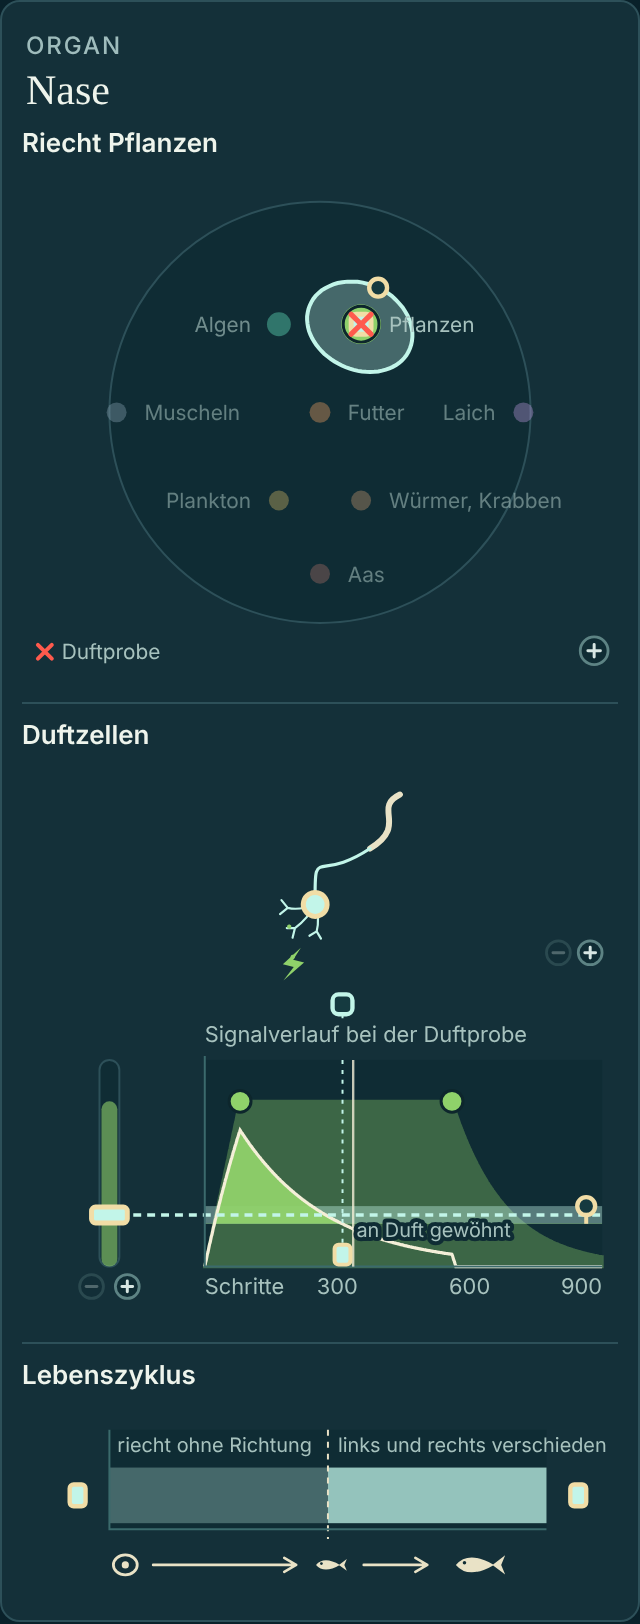
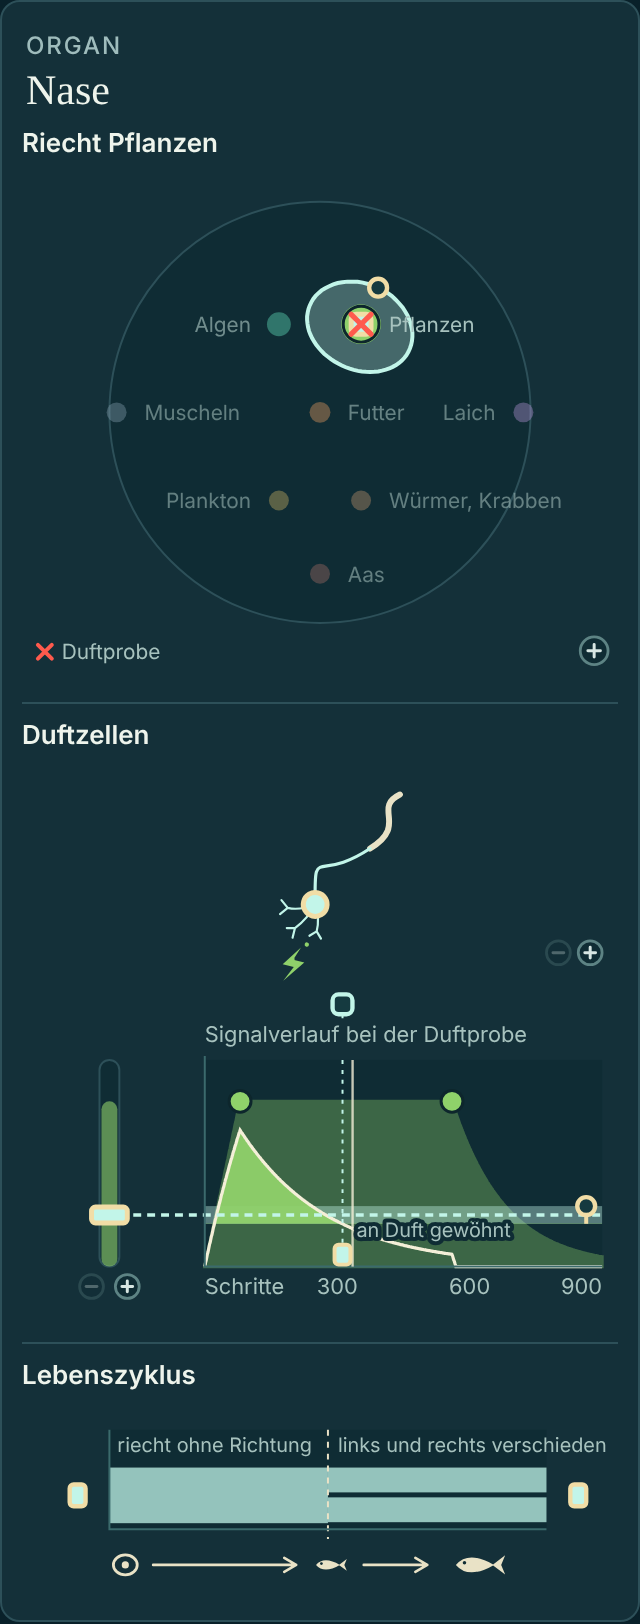
Entwurf Barteln: Kopf mit Barteln, Geschmackskarte mit Stein, Meldung ohne Zeitachse, Lebenszyklus; Nase: Lebensband
Claude-Session: https://claude.ai/code/session_01BFTVBFr3n4RiE4TcZDiSTc

Changed region(s): [[0.1562, 0.8929, 0.8438, 0.9544], [0.5312, 0.6466, 0.5625, 0.7697]]

diff --git a/entwuerfe/inspektoren.html b/entwuerfe/inspektoren.html
@@ -114,6 +114,17 @@ svg text.value{fill:var(--text);font-variant-numeric:tabular-nums}
     <h4>Lebenszyklus</h4>
     <svg id="noselife"></svg>
   </section>
+  <section class="panel" aria-label="Barteln">
+    <h2>Organ</h2><h3>Barteln</h3>
+    <h4 id="barb-kind" class="first">Barteln</h4>
+    <svg id="barbels"></svg>
+    <h4>Geschmack</h4>
+    <svg id="tastemap"></svg>
+    <h4>Meldung</h4>
+    <svg id="tastes"></svg>
+    <h4>Lebenszyklus</h4>
+    <svg id="barblife"></svg>
+  </section>
 </main>
 <script>
 'use strict';
@@ -196,7 +207,10 @@ const S = {
   spermfull : {keys : [{gate : .8, spread : .1}], chosen : 0, input : null},
   // The nose's types of cells: each with its place on the scent map (lat, lon) and its width;
   // probe: the scent tried on them.
-  smell : {keys : [{gate : .25, spread : .1, used : 200, lat : 35, lon : 25, width : .25}], chosen : 0, input : {rise : 80, height : .8, stop : 560}, probe : {lat : 35, lon : 25}}
+  smell : {keys : [{gate : .25, spread : .1, used : 200, lat : 35, lon : 25, width : .25}], chosen : 0, input : {rise : 80, height : .8, stop : 560}, probe : {lat : 35, lon : 25}},
+  // The barbels' types: a place and width on the same map, and feel: their share of mere touch;
+  // probe: what the thing at the tip tastes of, or a stone.
+  taste : {keys : [{gate : .3, lat : 35, lon : 155, width : .25, feel : .3}], chosen : 0, probe : {lat : 35, lon : 155}}
 };
 
 // ===== The model: the one source for every picture and number =====
@@ -2037,20 +2051,23 @@ const mapPlace = p => { const {cx, cy, R} = SNIFF.M, dx = p.x - cx, dy = cy - p.
 // A place dragged close to a scent is that scent.
 const snapped = p => { const at = SCENTS.find(([, lat, lon]) => { const [x, y] = mapPoint(lat, lon); return Math.hypot(x - p.x, y - p.y) <= SNIFF.snap; }); return at ? {lat : at[1], lon : at[2]} : mapPlace(p); };
 // What the sample holds of each scent: all of one where it lies on it, else a mix of those near.
-function sampleMix() {
-  const at = onSphere(S.smell.probe.lat, S.smell.probe.lon), raw = SCENTS.map(([, lat, lon]) => { const a = angleBetween(at, onSphere(lat, lon)); return a < .5 ? 1e6 : Math.exp(-((a / SNIFF.mix) ** 2)); }), sum = raw.reduce((x, y) => x + y, 0);
+// A sample of stone holds no scent at all.
+function sampleMix(cell = S.smell) {
+  if (cell.probe.stone) return SCENTS.map(() => 0);
+  const at = onSphere(cell.probe.lat, cell.probe.lon), raw = SCENTS.map(([, lat, lon]) => { const a = angleBetween(at, onSphere(lat, lon)); return a < .5 ? 1e6 : Math.exp(-((a / SNIFF.mix) ** 2)); }), sum = raw.reduce((x, y) => x + y, 0);
   return raw.map(v => sum > 0 ? v / sum : 0);
 }
 const typeShares = k => { const at = onSphere(k.lat, k.lon); return SCENTS.map(([, lat, lon]) => scentShare(angleBetween(at, onSphere(lat, lon)), k.width)); };
-const smellShare = k => { const mix = sampleMix(), shares = typeShares(k); return mix.reduce((sum, m, j) => sum + m * shares[j], 0); };
-const sampleColour = () => { const mix = sampleMix(); return SCENTS[mix.indexOf(Math.max(...mix))][3]; };
+const smellShare = (k, cell = S.smell) => { const mix = sampleMix(cell), shares = typeShares(k); return mix.reduce((sum, m, j) => sum + m * shares[j], 0); };
+const STONE = '#8d9aa0';
+const sampleColour = (cell = S.smell) => { const mix = sampleMix(cell); return cell.probe.stone ? STONE : SCENTS[mix.indexOf(Math.max(...mix))][3]; };
 // The scent map: the eight scents as balls, the bigger the more the nose's cells take of them;
 // each type of cells as the patch in which it takes at least half, with a grip at its place and
 // one on its edge for its width; the sample as a red cross.
-function drawScentMap() {
-  const {svg, live} = picture('scentmap', SNIFF.M.height), {cx, cy, R, ball, samples} = SNIFF.M, cell = S.smell, keys = cell.keys;
+function drawScentMap(id = 'scentmap', cell = S.smell, NOSE_PARTS = ['scentmap', 'smell', 'noselife'], words = {kind : 'nose-kind', verb : 'Riecht', sample : 'Duftprobe', stone : false, fresh : {}}) {
+  const {svg, live} = picture(id, SNIFF.M.height), {cx, cy, R, ball, samples} = SNIFF.M, keys = cell.keys;
   const taken = SCENTS.map((_, j) => Math.max(...keys.map(k => typeShares(k)[j]))), best = keys.map(k => { const s = typeShares(k); return SCENTS[s.indexOf(Math.max(...s))][0]; });
-  document.getElementById('nose-kind').textContent = 'Riecht ' + [...new Set(best)].join(', ');
+  document.getElementById(words.kind).textContent = words.verb + ' ' + [...new Set(best)].join(', ');
   el('circle', {cx, cy, r : R, fill : COLOUR.track, stroke : COLOUR.trackEdge}, live);
   keys.forEach((k, i) => {
     const chosen = i === cell.chosen, half = scentHalf(k.width), at = onSphere(k.lat, k.lon);
@@ -2070,12 +2087,12 @@ function drawScentMap() {
     txt(live, x + (right ? 14 : -14), y + 4, name, {'text-anchor' : right ? 'start' : 'end', fill : colour, style : 'font-size:10.5px', opacity : .55 + .45 * taken[j], 'pointer-events' : 'none'});
   });
   el('path', {d : `M8 ${SNIFF.M.height - 13} l7 7 m0 -7 l-7 7`, stroke : '#ff5a4d', 'stroke-width' : 2, 'stroke-linecap' : 'round'}, live);
-  txt(live, 20, SNIFF.M.height - 6, 'Duftprobe', {style : 'font-size:10.5px'});
+  txt(live, 20, SNIFF.M.height - 6, words.sample, {style : 'font-size:10.5px'});
   // The types' grips: at their place; the chosen one's width on its patch's edge, and its (×).
   keys.forEach((k, i) => {
     const chosen = i === cell.chosen, [x, y] = mapPoint(k.lat, k.lon);
     drag(svg, el('rect', {x : x - 5, y : y - 5, width : 10, height : 10, rx : 2.5, style : `fill:${keyColour(i)};stroke:${chosen ? COLOUR.chosen : COLOUR.unchosen};stroke-width:${chosen ? 2.5 : 1}`}, live),
-      p => { Object.assign(k, snapped(p)); cell.chosen = i; draw(NOSE_PARTS); }, 'type' + i);
+      p => { Object.assign(k, snapped(p)); cell.chosen = i; draw(NOSE_PARTS); }, id + 'type' + i);
     if (!chosen) return;
     const half = Math.min(scentHalf(k.width), 170), edge = (() => { const p = mapPoint(k.lat - half, k.lon); return Math.hypot(p[0] - cx, p[1] - cy) <= R + .5 ? p : mapPoint(k.lat + half > 90 ? 180 - k.lat - half : k.lat + half, k.lat + half > 90 ? k.lon + 180 : k.lon); })();
     drag(svg, el('circle', {cx : edge[0], cy : edge[1], r : 4.5}, live), p => {
@@ -2083,19 +2100,25 @@ function drawScentMap() {
       const wanted = angleBetween(onSphere(k.lat, k.lon), (({lat, lon}) => onSphere(lat, lon))(mapPlace(p)));
       let lo = 0, hi = .8;
       for (let n = 0; n < 22; n++) { const mid = (lo + hi) / 2; if (scentHalf(mid) < wanted) lo = mid; else hi = mid; }
-      k.width = lo; draw(NOSE_PARTS); }, 'typewidth');
+      k.width = lo; draw(NOSE_PARTS); }, id + 'typewidth');
     if (keys.length > 1) chip(live, x + 11, y - 11, '×', () => { keys.splice(i, 1); cell.chosen = 0; }, NOSE_PARTS, true, 6);
   });
   // The sample: a red cross, above the grips so that it shows where it lies on one.
-  const [sx, sy] = mapPoint(cell.probe.lat, cell.probe.lon), cross = el('g', {}, live);
+  // A stone has no place among the scents: it lies beside the map, and the sample can lie on it.
+  const stoneAt = [2 * cx - 26, 22];
+  if (words.stone) {
+    el('path', {d : `M${stoneAt[0] - 9} ${stoneAt[1] + 4} l3 -9 l8 -3 l7 5 l-2 8 l-10 3 Z`, fill : STONE, opacity : cell.probe.stone ? 1 : .6, class : 'chip'}, live).addEventListener('pointerdown', () => { cell.probe = {...cell.probe, stone : true}; draw(NOSE_PARTS); });
+    txt(live, stoneAt[0], stoneAt[1] + 22, 'Stein', {'text-anchor' : 'middle', style : 'font-size:10.5px', fill : STONE});
+  }
+  const [sx, sy] = cell.probe.stone ? stoneAt : mapPoint(cell.probe.lat, cell.probe.lon), cross = el('g', {}, live);
   el('circle', {cx : sx, cy : sy, r : 9, fill : 'transparent'}, cross);
   el('path', {d : `M${sx - 5} ${sy - 5} l10 10 m0 -10 l-10 10`, stroke : '#ff5a4d', 'stroke-width' : 2.6, 'stroke-linecap' : 'round'}, cross);
-  drag(svg, cross, p => { cell.probe = snapped(p); draw(NOSE_PARTS); }, 'sample', 'knob');
-  chip(live, 2 * cx - 12, SNIFF.M.height - 10, '+', () => { keys.push({gate : .25, spread : .1, used : 200, ...cell.probe, width : .25}); cell.chosen = keys.length - 1; }, NOSE_PARTS, keys.length < 3, 7);
+  drag(svg, cross, p => { cell.probe = words.stone && Math.hypot(p.x - stoneAt[0], p.y - stoneAt[1]) < 16 ? {...cell.probe, stone : true} : snapped(p); draw(NOSE_PARTS); }, id + 'sample', 'knob');
+  chip(live, 2 * cx - 12, SNIFF.M.height - 10, '+', () => { keys.push({gate : .25, spread : .1, used : 200, lat : cell.probe.lat, lon : cell.probe.lon, width : .25, ...words.fresh}); cell.chosen = keys.length - 1; }, NOSE_PARTS, keys.length < 3, 7);
 }
 // Life cycle: across, the fish's maturity. A type's band: from where its cells work to where
-// they die (a grip at each end). In the egg the two nostrils give the same; from hatching on the
-// cells tell left from right.
+// they die (a grip at each end). In the egg the cells smell already, both nostrils the same; from
+// hatching on the band is two, left and right.
 function buildNoseLife(fixed) {
   const {L, R, top, icons} = SNIFF.LIFE, hatch = L + (R - L) * SNIFF.hatch, arrow = {stroke : COLOUR.icon, 'stroke-width' : 1.3, fill : 'none', 'stroke-linecap' : 'round', 'stroke-linejoin' : 'round'};
   txt(fixed, L + 4, top + 11, 'riecht ohne Richtung', {style : 'font-size:10px'}); txt(fixed, hatch + 5, top + 11, 'links und rechts verschieden', {style : 'font-size:10px'});
@@ -2110,15 +2133,113 @@ function drawNoseLife() {
   el('rect', {x : L, y : top, width : R - L, height : base - top, fill : COLOUR.track}, under);
   keys.forEach((k, i) => {
     const chosen = i === cell.chosen, from = k.from ?? 0, until = Math.min(1, k.until ?? 1), y = top + 18 + high * i, hatch = clamp(SNIFF.hatch, from, until);
-    // Paler in the egg, where it smells without a side.
-    el('rect', {x : X(from), y : y + 1, width : X(hatch) - X(from), height : high - 2, fill : keyColour(i), opacity : chosen ? .3 : .15}, under);
-    el('rect', {x : X(hatch), y : y + 1, width : X(until) - X(hatch), height : high - 2, fill : keyColour(i), opacity : chosen ? .75 : .35, class : 'chip'}, under).addEventListener('pointerdown', () => { cell.chosen = i; draw(NOSE_PARTS); });
+    // In the egg the cells smell as strongly, one band; from hatching on it parts into left and right.
+    const pick = () => { cell.chosen = i; draw(NOSE_PARTS); }, look = {fill : keyColour(i), opacity : chosen ? .75 : .35, class : 'chip'};
+    el('rect', {x : X(from), y : y + 1, width : X(hatch) - X(from), height : high - 2, ...look}, under).addEventListener('pointerdown', pick);
+    for (const half of [0, 1]) el('rect', {x : X(hatch), y : y + 1 + half * (high / 2), width : X(until) - X(hatch), height : high / 2 - 2.5, ...look}, under).addEventListener('pointerdown', pick);
     if (!chosen) return;
     const grip = (r, inside, name, move) => drag(svg, el('rect', {x : (inside ? X(r) : name === 'nosefrom' ? L - beside : R + beside) - 4, y : y + high / 2 - 5.5, width : 8, height : 11, rx : 2, style : `fill:${keyColour(i)}`}, live), p => { move(rOf(p.x)); draw(NOSE_PARTS); }, name);
     grip(from, from > 0, 'nosefrom', to => { k.from = to < whole ? 0 : Math.min(to, until - least); });
     grip(until, until < 1, 'noseuntil', to => { k.until = to > 1 - whole ? 1 : Math.max(to, from + least); });
   });
   el('path', {d : `M${X(SNIFF.hatch)} ${top} V${base + 5}`, stroke : COLOUR.icon, 'stroke-dasharray' : '3 3'}, live);
+  el('path', {d : `M${L} ${top} V${base} H${R}`, stroke : COLOUR.axis, fill : 'none'}, live);
+}
+
+// ===== The barbels: what their tips touch =====
+// Read in the engine (body_plan.cc:1003-1010; cppn_brain.cc:370-382; small_animals.cc:73-101;
+// protocol_schema.hh:2007-2013; physiology.hh:437-441):
+//   a barbel on each side of the mouth, 0.45 rad outwards, as long as the body's radius x
+//   (0.22 + 0.35 x g / (g + 3)), g the root of its cells;
+//   it tastes only what its tip touches (within a reach of 2): every scent of the thing touched
+//   counts whole, not by amount; a stone is touched and has no taste;
+//   a cell's stimulus = (1 - feel) x min(1, taste) + feel x touched, taste the sum of the touched
+//   scents x what the cell takes of them (the nose's map), feel its share of mere touch;
+//   in the egg a barbel reports nothing.
+// No time here: a tip touches or does not.
+const BARB = {least : 1, most : 16, spread : .45, short : .22, long : .35, half : 3, reach : 9, hatch : .5,
+              H : {height : 150, mouthX : 150, mouthY : 78, radius : 150},
+              B : {L : 70, R : 280, top : 12, row : 26, height : 100},
+              LIFE : {L : 44, R : 264, top : 14, base : 64, icons : 82, height : 96, beside : 16, whole : .015, least : .08}};
+const BARB_PARTS = ['barbels', 'tastemap', 'tastes', 'barblife'];
+const BA = {cells : 3, thing : {x : 44, y : 44}};
+const barbLength = cells => BARB.H.radius * (BARB.short + BARB.long * Math.sqrt(cells) / (Math.sqrt(cells) + BARB.half));
+const barbTip = (side, cells = BA.cells) => { const {mouthX, mouthY} = BARB.H, long = barbLength(cells); return [mouthX - long * Math.cos(BARB.spread), mouthY + side * (10 + long * Math.sin(BARB.spread))]; };
+const barbTouches = () => [-1, 1].some(side => { const [x, y] = barbTip(side); return Math.hypot(x - BA.thing.x, y - BA.thing.y) <= BARB.reach + 7; });
+// What a type's cells get: taste of the thing touched, and its mere touch.
+function barbStimulus(k) {
+  const touched = barbTouches() ? 1 : 0, taste = Math.min(1, smellShare(k, S.taste)) * touched;
+  return {taste : (1 - k.feel) * taste, touch : k.feel * touched};
+}
+function buildBarbels(fixed) {
+  const {mouthX, mouthY} = BARB.H;
+  // The head from above, snout to the left; only its front, the body runs on to the right.
+  el('path', {d : `M300 ${mouthY - 62} Q${mouthX + 60} ${mouthY - 64} ${mouthX + 12} ${mouthY - 22} Q${mouthX - 8} ${mouthY} ${mouthX + 12} ${mouthY + 22} Q${mouthX + 60} ${mouthY + 64} 300 ${mouthY + 62} Z`, fill : HEAD, stroke : COLOUR.axis, 'stroke-width' : 1.4}, fixed);
+  for (const side of [-1, 1]) { el('circle', {cx : mouthX + 62, cy : mouthY + side * 40, r : 5, fill : COLOUR.unchosen, stroke : COLOUR.axis, 'stroke-width' : 1.2}, fixed); el('circle', {cx : mouthX + 60.2, cy : mouthY + side * 40 - 1.5, r : 1.3, fill : COLOUR.icon}, fixed); }
+}
+function drawBarbels() {
+  const {svg, live} = picture('barbels', BARB.H.height, buildBarbels), {mouthX, mouthY} = BARB.H, touching = barbTouches();
+  txt(live, 4, 10, touching ? 'berührt' : 'berührt nichts', {style : 'font-size:10px'});
+  for (const side of [-1, 1]) {
+    const [x, y] = barbTip(side), from = [mouthX + 8, mouthY + side * 10];
+    el('path', {d : `M${from[0]} ${from[1]} Q${(from[0] + x) / 2} ${(from[1] + y) / 2 + side * 6} ${x} ${y}`, stroke : COLOUR.icon, 'stroke-width' : 3, fill : 'none', 'stroke-linecap' : 'round'}, live);
+    el('circle', {cx : x, cy : y, r : BARB.reach, fill : 'none', stroke : COLOUR.icon, 'stroke-dasharray' : '2 3', opacity : .6}, live);
+  }
+  // The cells: the grip at the upper tip, pulled out for more of them.
+  const [gx, gy] = barbTip(-1);
+  drag(svg, el('rect', {x : gx - 4, y : gy - 5.5, width : 8, height : 11, rx : 2, style : `fill:${COLOUR.icon}`}, live), p => {
+    let best = BA.cells;
+    for (let c = BARB.least; c <= BARB.most; c++) if (Math.abs(barbTip(-1, c)[0] - p.x) < Math.abs(barbTip(-1, best)[0] - p.x)) best = c;
+    BA.cells = best; draw(BARB_PARTS); }, 'barbcells');
+  // The thing a tip may touch: in the colour of what it tastes of, pushed about freely.
+  drag(svg, el('circle', {cx : BA.thing.x, cy : BA.thing.y, r : 7, fill : sampleColour(S.taste)}, live), p => { BA.thing = {x : clamp(p.x, 8, 292), y : clamp(p.y, 20, BARB.H.height - 8)}; draw(BARB_PARTS); }, 'barbthing', 'knob');
+}
+// What each type reports of the thing at the tip: its taste (in the taste's colour) and, beside
+// it, its mere touch (light). The dashed mark is the type's threshold; the grip between taste and
+// touch sets how much of the cell is given to touch.
+function drawTastes() {
+  const keys = S.taste.keys, {L, R, top, row} = BARB.B, {svg, live} = picture('tastes', top + row * 3 + 22), X = v => L + (R - L) * clamp(v, 0, 1), colour = sampleColour(S.taste);
+  txt(live, L, top + row * 3 + 16, 'nichts'); txt(live, R, top + row * 3 + 16, 'voll', {'text-anchor' : 'end'});
+  keys.forEach((k, i) => {
+    const chosen = i === S.taste.chosen, y = top + row * i, got = barbStimulus(k), sum = got.taste + got.touch, pick = () => { S.taste.chosen = i; draw(BARB_PARTS); };
+    el('rect', {x : L, y, width : R - L, height : row - 8, rx : 4, fill : COLOUR.track, stroke : chosen ? keyColour(i) : COLOUR.trackEdge, 'stroke-width' : chosen ? 1.8 : 1, class : 'chip'}, live).addEventListener('pointerdown', pick);
+    el('rect', {x : L, y : y + 1, width : X(got.taste) - L, height : row - 10, rx : 3, fill : colour, opacity : .85, 'pointer-events' : 'none'}, live);
+    el('rect', {x : X(got.taste), y : y + 1, width : X(sum) - X(got.taste), height : row - 10, rx : 3, fill : COLOUR.line, opacity : .55, 'pointer-events' : 'none'}, live);
+    el('circle', {cx : L - 16, cy : y + row / 2 - 4, r : 6, fill : keyColour(i), stroke : chosen ? COLOUR.chosen : COLOUR.unchosen, 'stroke-width' : chosen ? 2.5 : 1, class : 'chip'}, live).addEventListener('pointerdown', pick);
+    // It reports where its stimulus passes its threshold.
+    el('path', {d : `M${X(k.gate)} ${y - 2} v${row - 4}`, stroke : keyColour(i), 'stroke-dasharray' : '3 2', 'stroke-width' : 1.6}, live);
+    if (sum > k.gate) txt(live, L - 30, y + row / 2, '⚡', {'text-anchor' : 'end', fill : COLOUR.line, style : 'font-size:11px'});
+    if (!chosen) return;
+    drag(svg, el('rect', {x : X(k.gate) - 4, y : y + row - 12, width : 8, height : 10, rx : 2, style : `fill:${keyColour(i)}`}, live), p => { k.gate = clamp((p.x - L) / (R - L), .03, .97); draw(BARB_PARTS); }, 'tastegate');
+    // Taste against touch: the grip on the row's upper edge, from all taste (left) to all touch.
+    drag(svg, el('circle', {cx : X(k.feel), cy : y, r : 4.5}, live), p => { k.feel = clamp((p.x - L) / (R - L), 0, 1); draw(BARB_PARTS); }, 'tastefeel');
+  });
+  txt(live, L, top - 3, 'schmeckt', {style : 'font-size:10px'}); txt(live, R, top - 3, 'tastet', {'text-anchor' : 'end', style : 'font-size:10px'});
+}
+// Life cycle: a type's band from where its cells work to where they die. In the egg a barbel
+// reports nothing: there the band is empty.
+function buildBarbLife(fixed) {
+  const {L, R, top, icons} = BARB.LIFE, hatch = L + (R - L) * BARB.hatch, arrow = {stroke : COLOUR.icon, 'stroke-width' : 1.3, fill : 'none', 'stroke-linecap' : 'round', 'stroke-linejoin' : 'round'};
+  txt(fixed, L + 4, top + 11, 'meldet nichts', {style : 'font-size:10px'}); txt(fixed, hatch + 5, top + 11, 'schmeckt und tastet', {style : 'font-size:10px'});
+  el('ellipse', {cx : L + 8, cy : icons, rx : 6, ry : 5, fill : 'none', stroke : COLOUR.icon, 'stroke-width' : 1.4}, fixed);
+  el('circle', {cx : L + 8, cy : icons, r : 1.8, fill : COLOUR.icon}, fixed);
+  fishIcon(fixed, hatch, icons, AGE_SIZE.young, COLOUR.icon); fishIcon(fixed, R - 36, icons, AGE_SIZE.grown, COLOUR.icon);
+  el('path', {d : `M${L + 22} ${icons} H${hatch - 16} m-6 -3.5 l6 3.5 l-6 3.5 M${hatch + 18} ${icons} H${R - 60} m-6 -3.5 l6 3.5 l-6 3.5`, ...arrow}, fixed);
+}
+function drawBarbLife() {
+  const {svg, under, live} = picture('barblife', BARB.LIFE.height, buildBarbLife), {L, R, top, base, beside, whole, least} = BARB.LIFE, cell = S.taste, keys = cell.keys;
+  const X = r => L + (R - L) * clamp(r, 0, 1), rOf = x => clamp((x - L) / (R - L), 0, 1), high = (base - top - 20) / keys.length;
+  el('rect', {x : L, y : top, width : R - L, height : base - top, fill : COLOUR.track}, under);
+  keys.forEach((k, i) => {
+    const chosen = i === cell.chosen, from = k.from ?? 0, until = Math.min(1, k.until ?? 1), y = top + 18 + high * i, hatch = clamp(BARB.hatch, from, until);
+    el('rect', {x : X(from), y : y + 1, width : X(hatch) - X(from), height : high - 2, fill : 'none', stroke : keyColour(i), 'stroke-dasharray' : '2 3', opacity : chosen ? .9 : .5}, under);
+    el('rect', {x : X(hatch), y : y + 1, width : X(until) - X(hatch), height : high - 2, fill : keyColour(i), opacity : chosen ? .75 : .35, class : 'chip'}, under).addEventListener('pointerdown', () => { cell.chosen = i; draw(BARB_PARTS); });
+    if (!chosen) return;
+    const grip = (r, inside, name, move) => drag(svg, el('rect', {x : (inside ? X(r) : name === 'barbfrom' ? L - beside : R + beside) - 4, y : y + high / 2 - 5.5, width : 8, height : 11, rx : 2, style : `fill:${keyColour(i)}`}, live), p => { move(rOf(p.x)); draw(BARB_PARTS); }, name);
+    grip(from, from > 0, 'barbfrom', to => { k.from = to < whole ? 0 : Math.min(to, until - least); });
+    grip(until, until < 1, 'barbuntil', to => { k.until = to > 1 - whole ? 1 : Math.max(to, from + least); });
+  });
+  el('path', {d : `M${X(BARB.hatch)} ${top} V${base + 5}`, stroke : COLOUR.icon, 'stroke-dasharray' : '3 3'}, live);
   el('path', {d : `M${L} ${top} V${base} H${R}`, stroke : COLOUR.axis, fill : 'none'}, live);
 }
 
@@ -2231,9 +2352,10 @@ const PAINT = {fish : drawFish, yield : drawYield, bars : drawBars, life : drawL
                gills : drawGills, rakers : drawRakers, gillwater : drawGillWater, gilllife : drawGillLife,
                eggs : drawEggs, eggfill : drawEggFill, eggfull : drawEggFull, egglife : drawEggLife,
                sperm : drawSperm, spermfill : drawSpermFill, spermfull : drawSpermFull, spermlife : drawSpermLife,
-               scentmap : drawScentMap, smell : () => drawSense('smell'), noselife : drawNoseLife};
+               scentmap : () => drawScentMap(), smell : () => drawSense('smell'), noselife : drawNoseLife,
+               barbels : drawBarbels, tastemap : () => drawScentMap('tastemap', S.taste, BARB_PARTS, {kind : 'barb-kind', verb : 'Schmeckt', sample : 'was die Spitze berührt', stone : true, fresh : {feel : .3}}), tastes : drawTastes, barblife : drawBarbLife};
 // The senses first: the fish's stomach follows the fullness input.
-for (const part of ['full', 'ache', 'feed', 'fish', 'yield', 'bars', 'life', ...TAIL_PARTS, 'depth', 'bladder', 'bladderfill', 'bladderlife', ...GILL_PARTS, 'eggfull', 'eggs', 'eggfill', 'egglife', 'spermfull', 'sperm', 'spermfill', 'spermlife', 'smell', 'scentmap', 'noselife']) dirty.add(part);
+for (const part of ['full', 'ache', 'feed', 'fish', 'yield', 'bars', 'life', ...TAIL_PARTS, 'depth', 'bladder', 'bladderfill', 'bladderlife', ...GILL_PARTS, 'eggfull', 'eggs', 'eggfill', 'egglife', 'spermfull', 'sperm', 'spermfill', 'spermlife', 'smell', 'scentmap', 'noselife', 'tastemap', 'barbels', 'tastes', 'barblife']) dirty.add(part);
 repaint();
 showGut(0);
 // Nothing moves while the panel is off the screen, or for someone who has asked for less motion:
